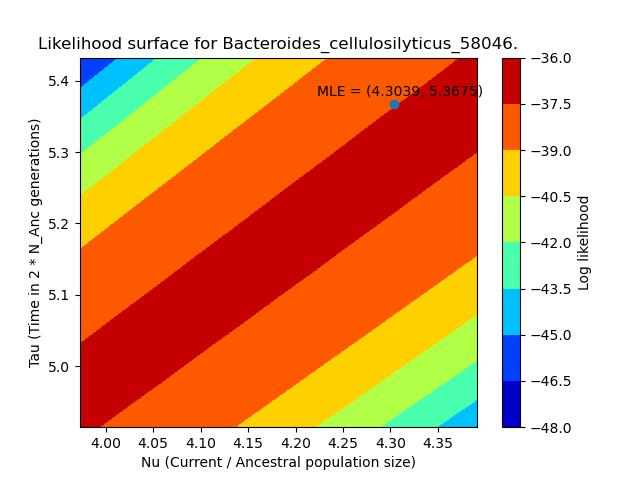
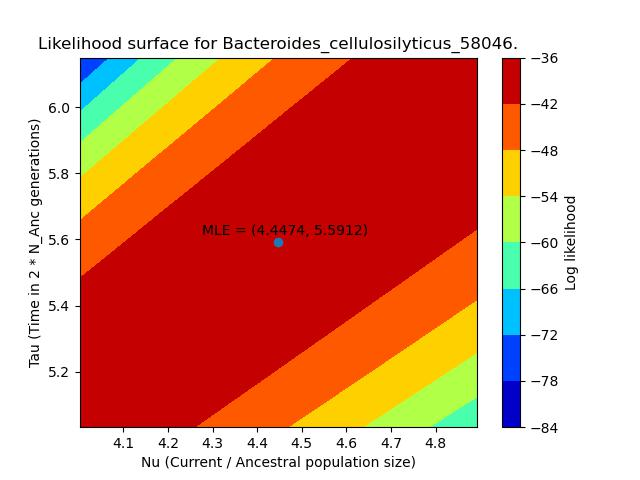
B. cell

diff --git a/Scripts/plot_likelihood.py b/Scripts/plot_likelihood.py
@@ -477,18 +477,19 @@ class PlotLikelihood():
                 # y_range = numpy.linspace(y * 0.95, y * 1.05, npts)
                 
                 # Oscillibacter species
-                x_range = numpy.linspace(x * 0.95, x * 1.05, npts)
-                y_range = numpy.linspace(y * 0.95, y * 1.05, npts)
+                x_range = numpy.linspace(x * 0.90, x * 1.1, npts)
+                y_range = numpy.linspace(y * 0.90, y * 1.1, npts)
 
                 X, Y = numpy.meshgrid(x_range, y_range)
 
                 Z = numpy.empty((npts, npts))
 
-                max_likelihood = -10000
+                max_likelihood = self.likelihood(input_nu, input_tau, syn_data, func_ex, pts_l)
+                best_params = [input_nu, input_tau]
                 for i in range(0, npts):
                     for j in range(0, npts):
                         Z[i, j] = self.likelihood(x_range[i], y_range[j], syn_data, func_ex, pts_l)
-                        if Z[i, j] > max_likelihood:
+                        if Z[i, j] > max_likelihood + 0.01:
                             # print(max_likelihood)
                             # print(Z[i, j])
                             # print(x_range[i], y_range[j])
